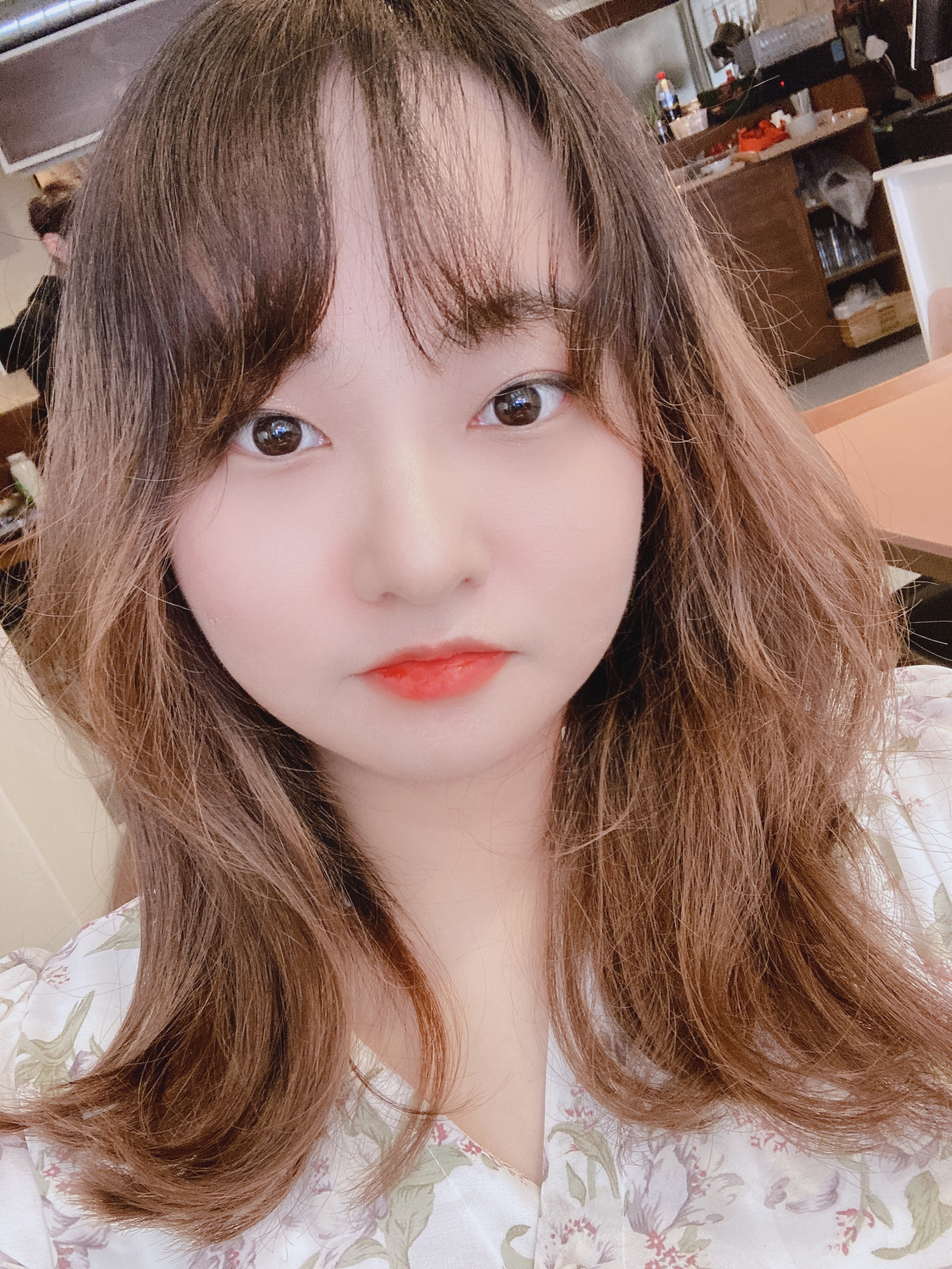
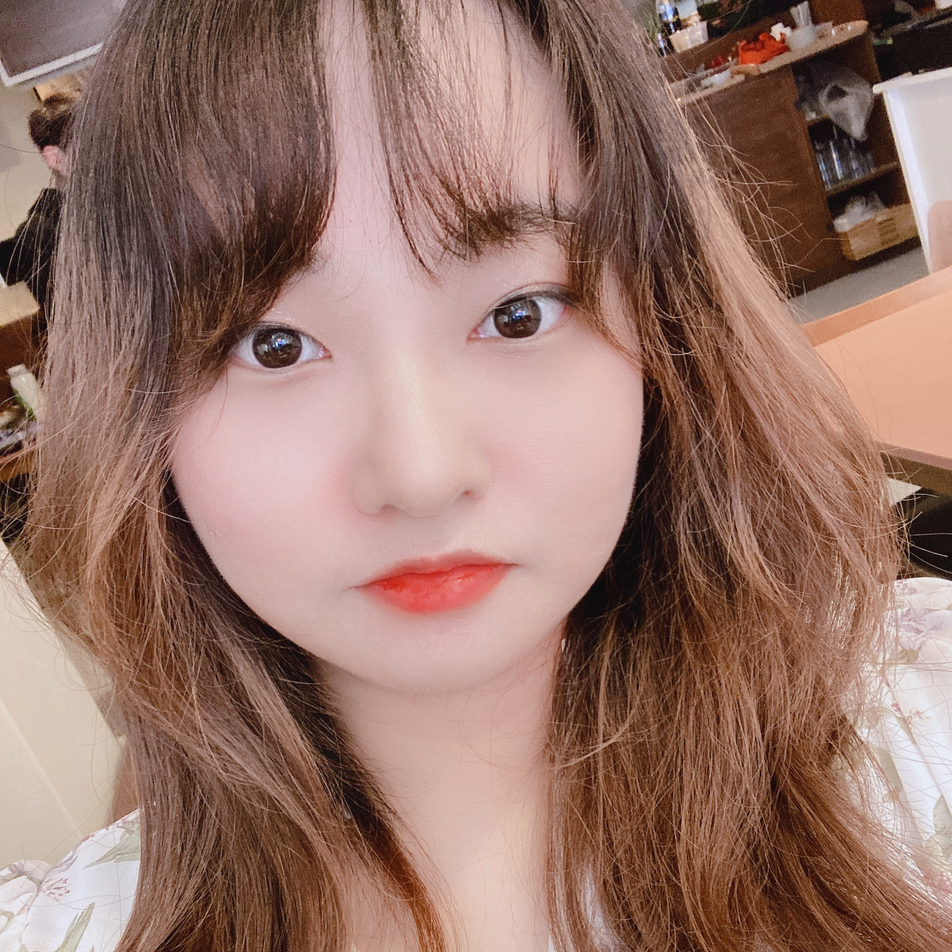
CSS: Home

diff --git a/style.css b/style.css
@@ -53,6 +53,14 @@ ul{
     padding-left: 0;
 
 }
+
+button{
+    background-color: transparent;
+    cursor: pointer;
+    border: none;
+    outline: none;
+
+}
 /* Typography */
 /* 패딩, 텍스트에 대해서 미리 스타일링 */
 h1 {
@@ -87,8 +95,11 @@ p{
 /* Navbar */
 #navbar{
     display: flex;
+    /* 박스 2개있으니깐 flex 박스로 하자 양쪽에 나올 수 있도록 */
     justify-content: space-between;
-    background-color: var(--color-purple);
+    /* 중심축에서 정렬 */
+    /* background-color: var(--color-purple); */
+    background: url('imgs/home-background.png') center/cover;
     align-items: center;
     color:var(--color-white);
     padding: 16px;
@@ -105,4 +116,35 @@ p{
 .navbar__menu__item{
     padding: 8px 12px;
     margin: 0 4px;
+}
+
+
+/* Home */
+
+#home{
+    background: url('imgs/home-background.png') center/cover;
+    padding:40px;
+    text-align: center;
+}
+
+.home__avatar{
+    width: 250px;
+    height: 250px;
+    border-radius: 50%;
+    border:2px solid var(--color-light-white);
+}
+
+.home__title,
+.home__description{
+    color: var(--color-white);
+}
+
+.home__contact{
+    color: var(--color-white);
+    font-size: var(--font-regular);
+    font-weight: var(--weight-bold);
+    margin: 24px;
+    padding: 8px 12px;
+    border: 2px solid var(--color-white);
+    border-radius: 4px;
 }
